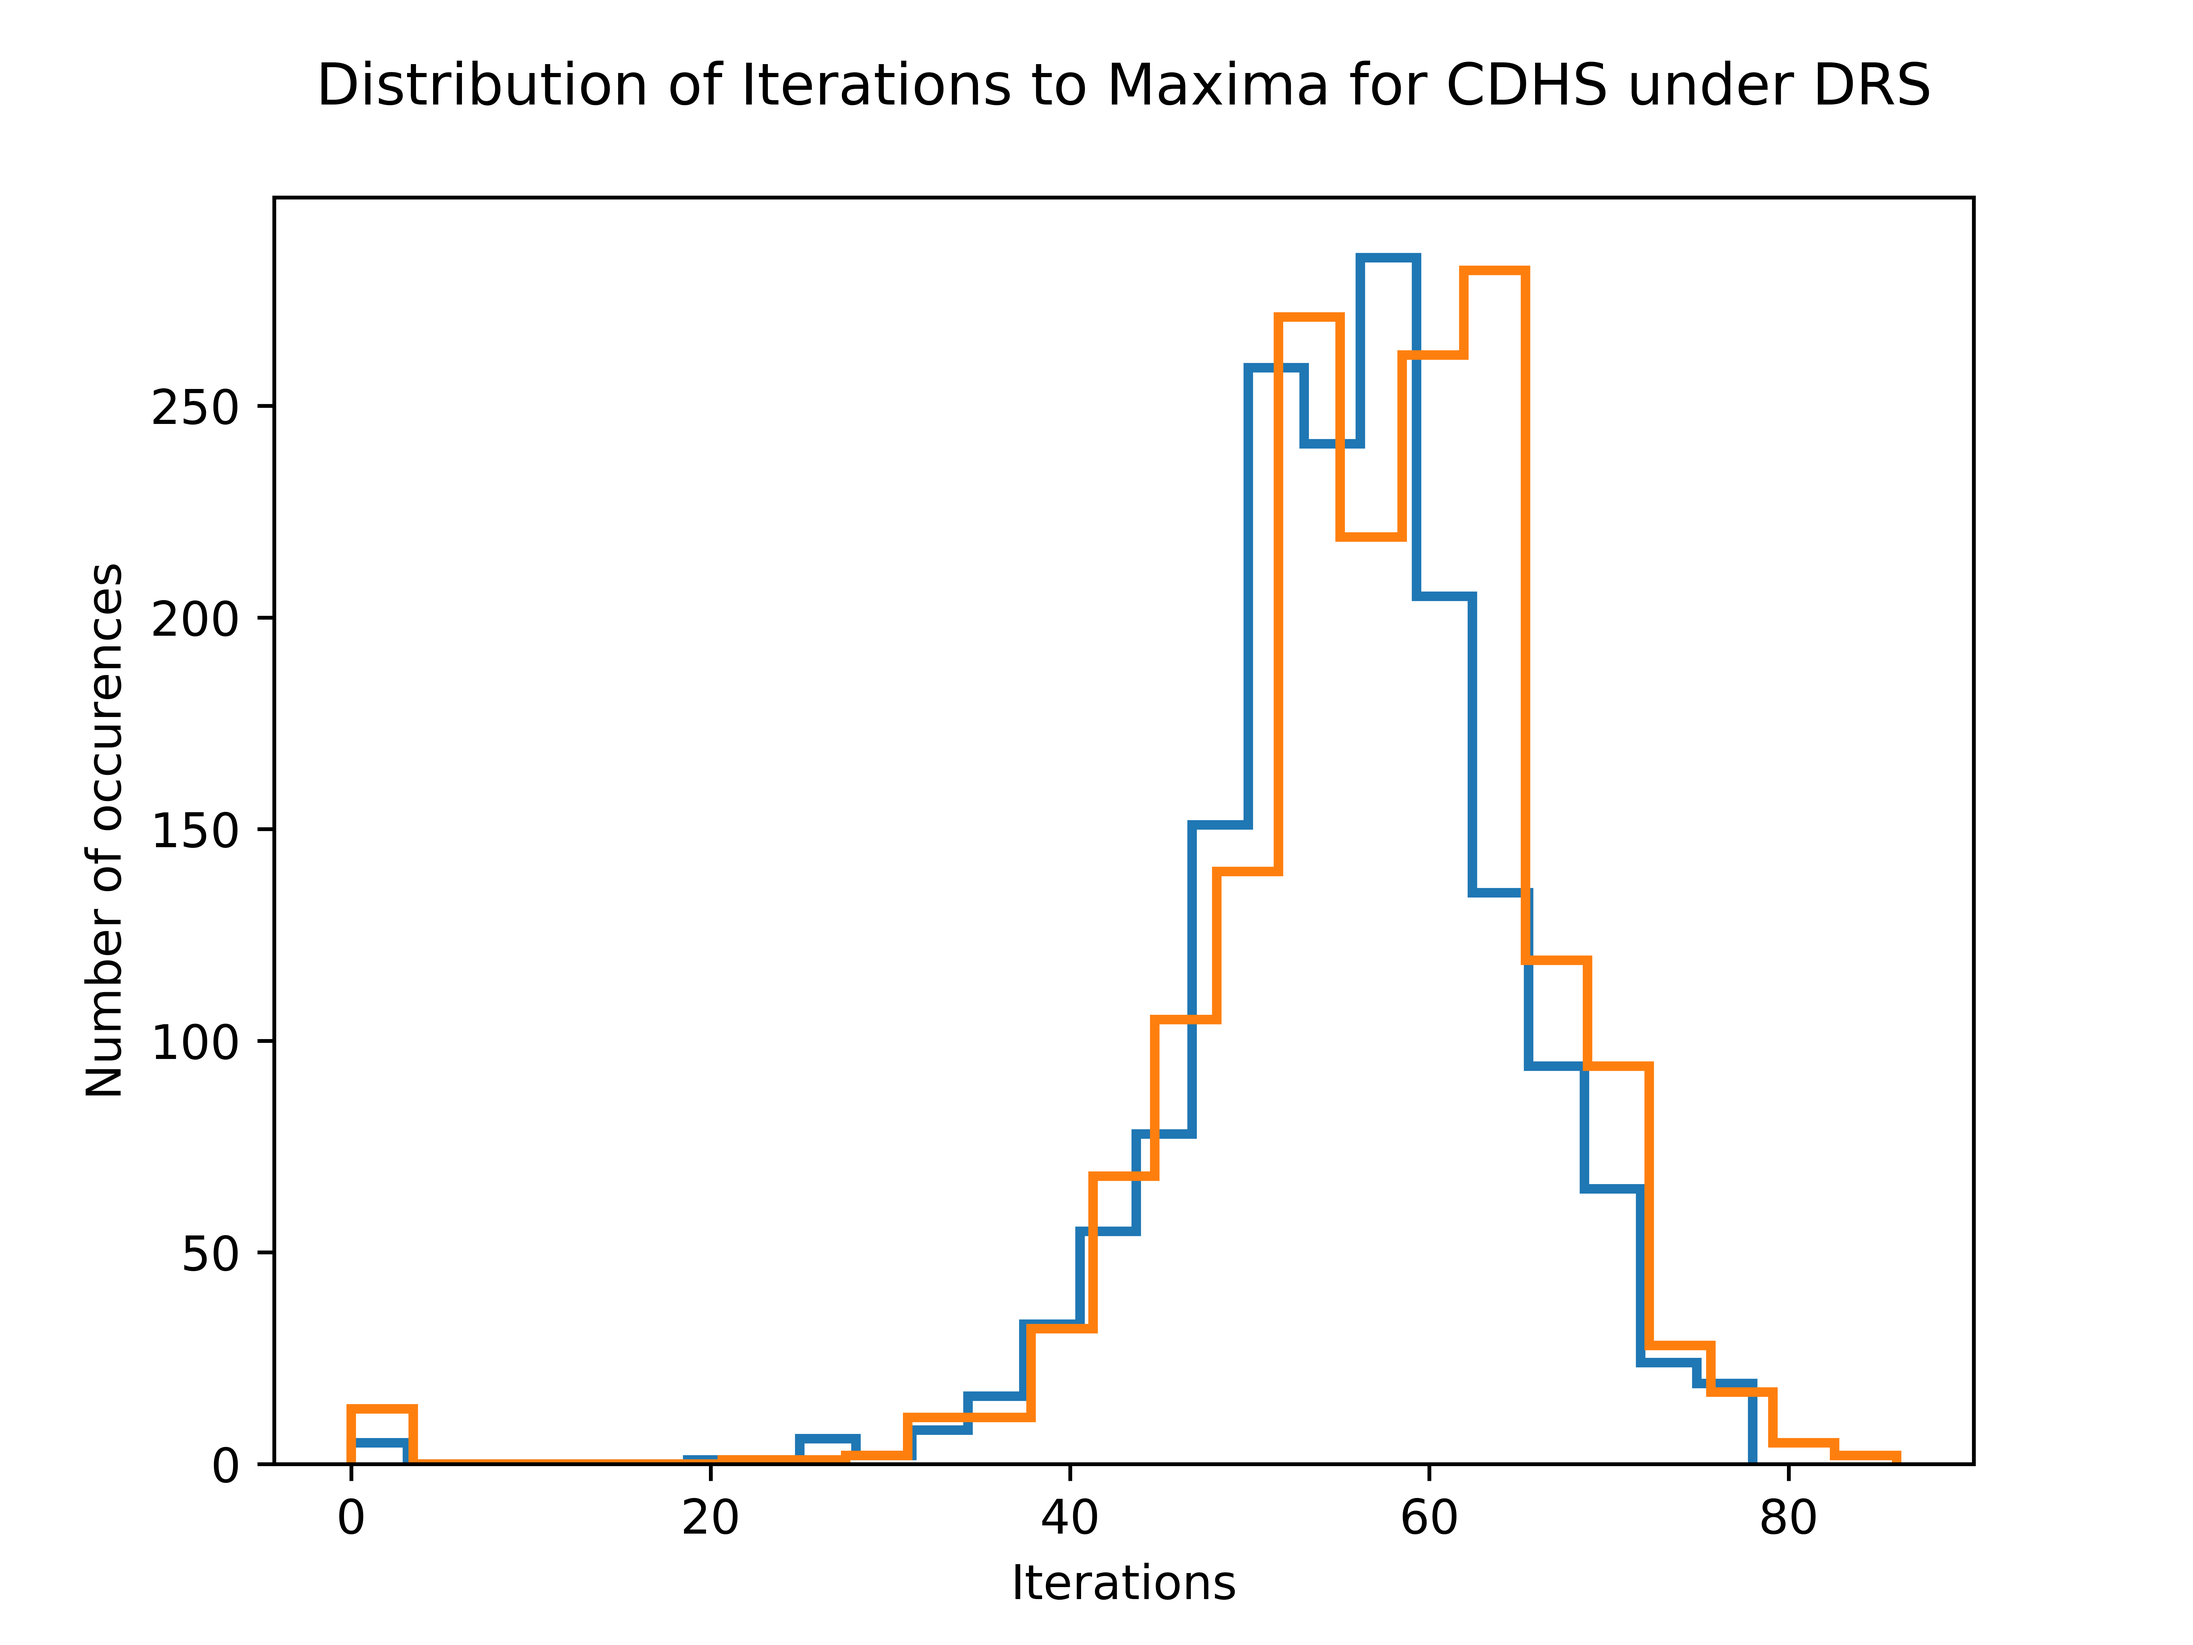
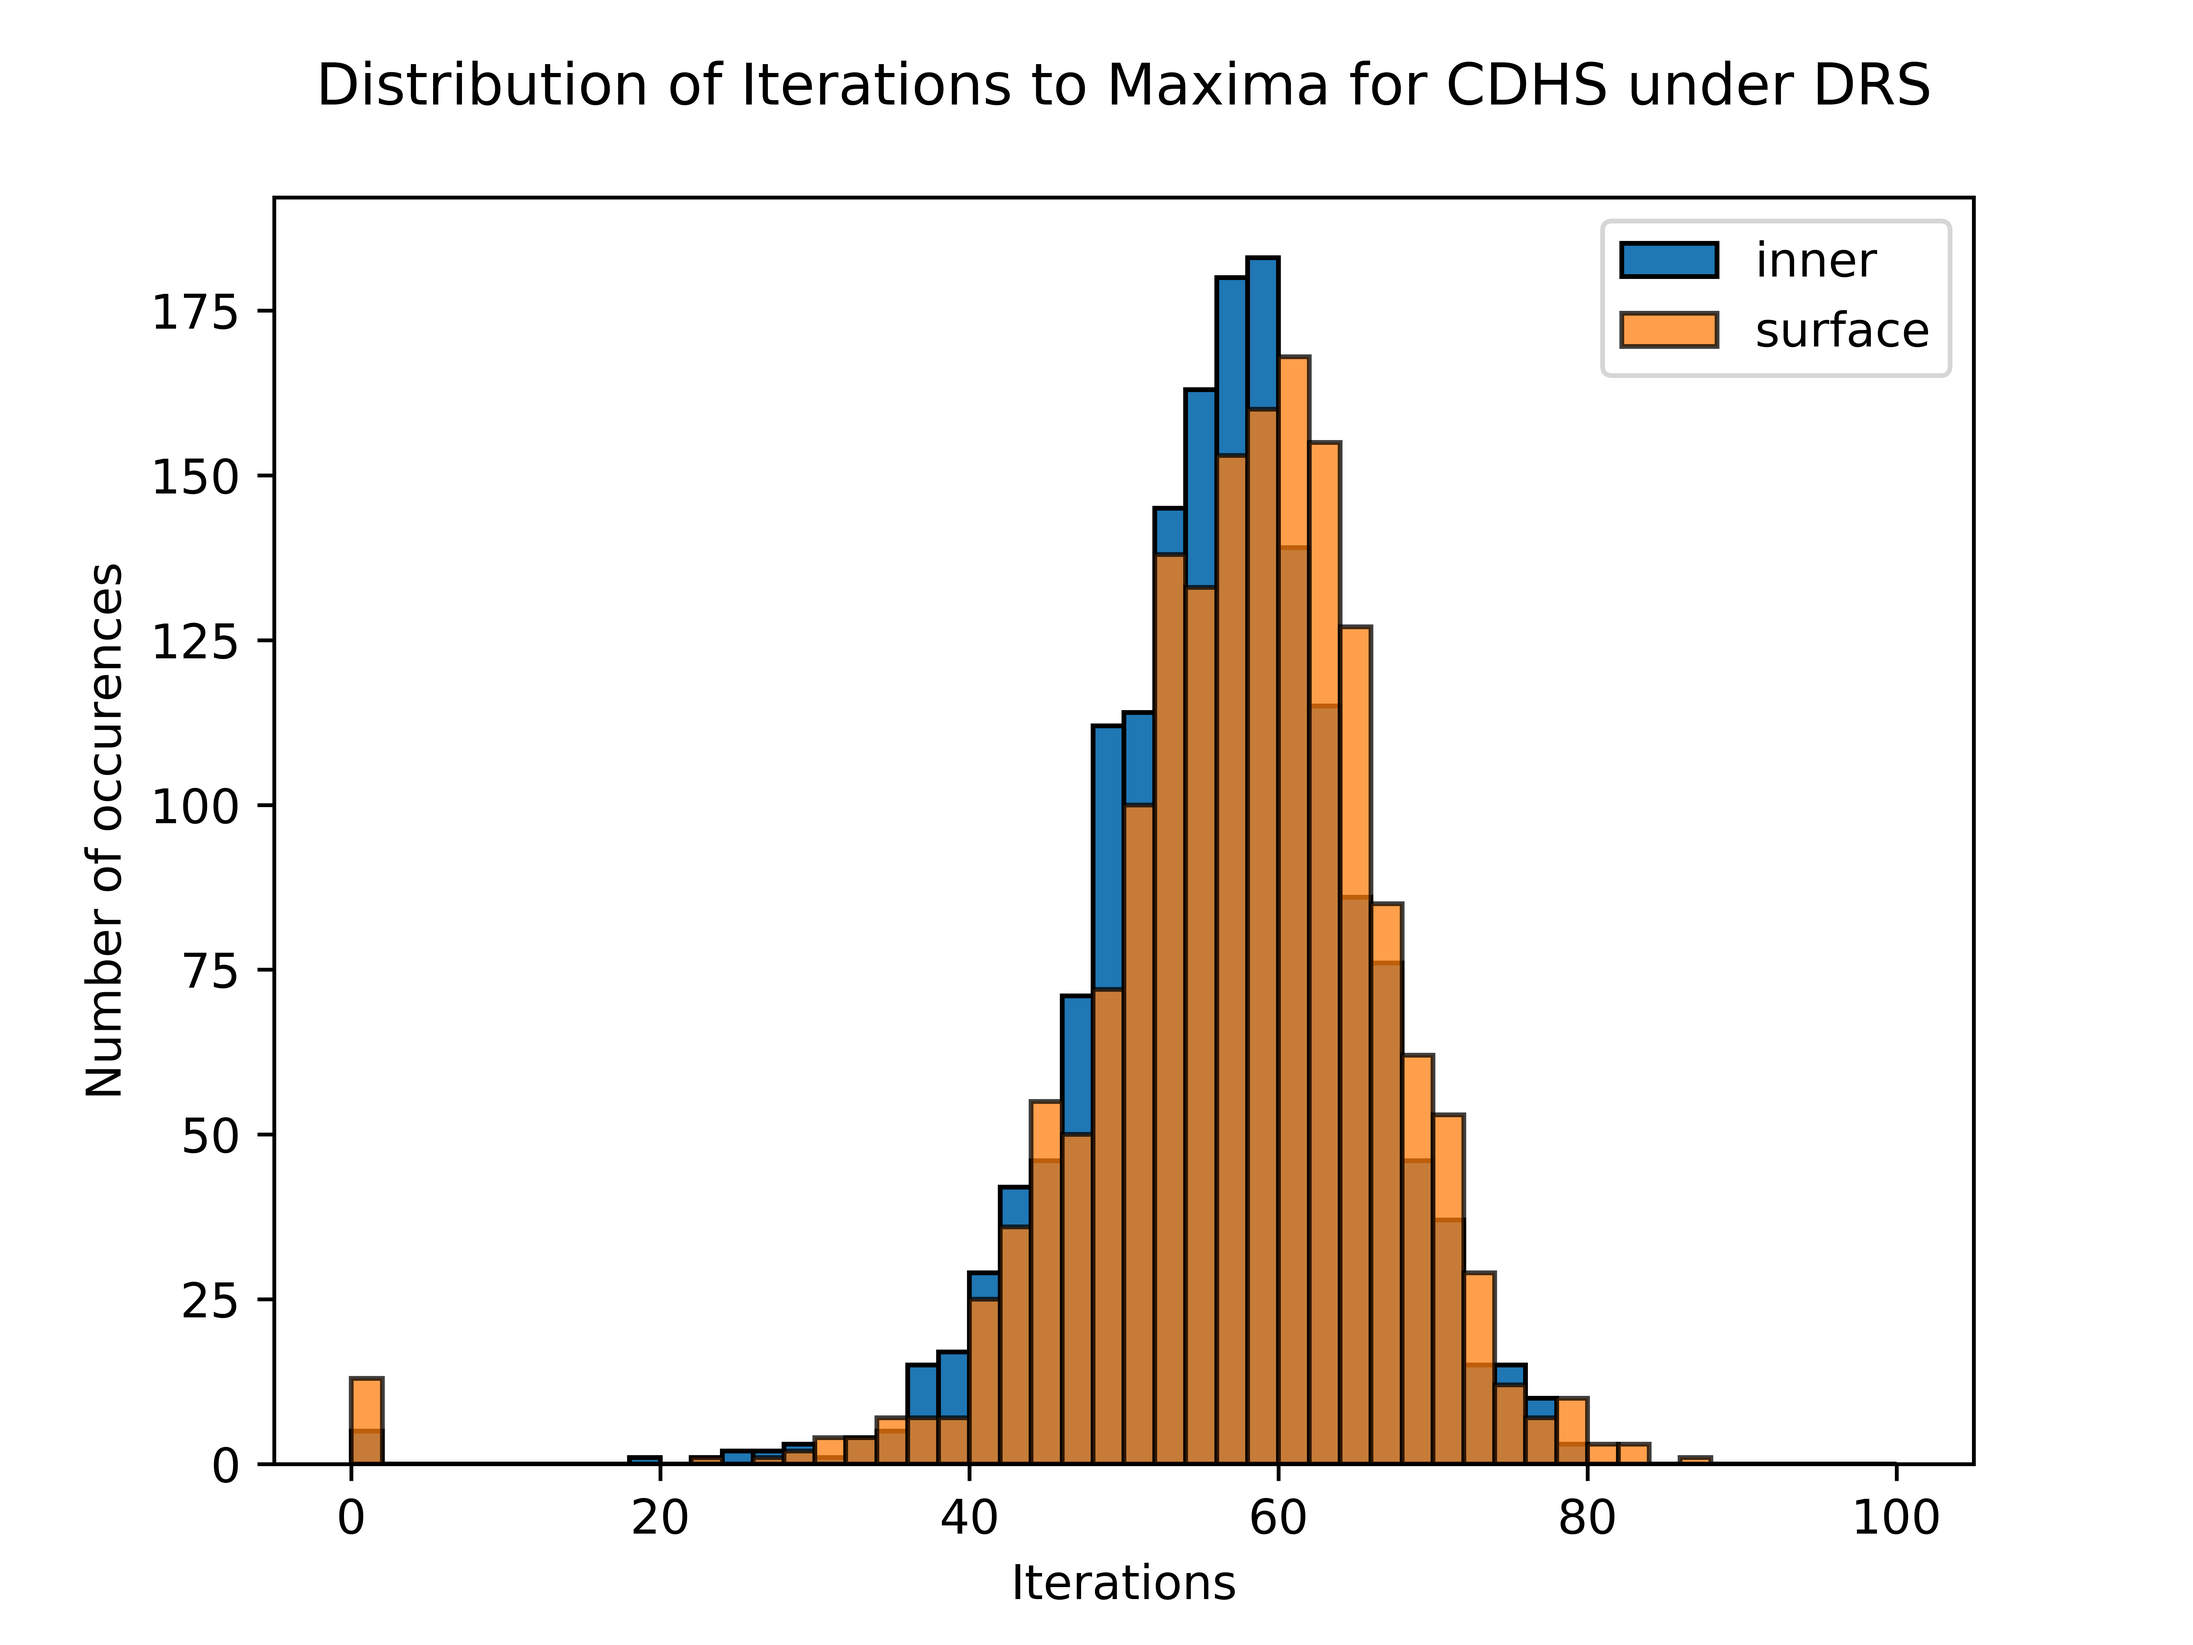
Tweaked the iterations plots.

diff --git a/generate_plots.py b/generate_plots.py
@@ -2,6 +2,7 @@
 
 # import matplotlib as mpl
 from matplotlib import pyplot as plt
+import numpy as np
 import pandas as pd
 import sys
 
@@ -54,16 +55,19 @@ def plot_score_distributions(scores, display=True, save=False):
 
 # Iterations distributions.
 def plot_iter_distributions(scores, display=True, save=False):
-    params = dict(bins=25, histtype='step', linewidth=2)
+    params = dict(bins=50, histtype='bar', edgecolor='k')
     title = 'Distribution of Iterations to Maxima for {} under {}\n'
     for sc in scores:
         for cn, res in scores[sc].items():
             print('Plotting %s-%s iterations.' % (sc, cn))
             if sc == 'CDHS':
-                plt.hist(res['Inn'], **params)
-                plt.hist(res['Sur'], **params)
+                #  plt.hist(np.array((res['Inn'], res['Sur'])).T, **params)
+                plt.hist(res['Inn'], label='inner', range=(0, 100), **params)
+                plt.hist(res['Sur'], label='surface', range=(0, 100),
+                         alpha=.75, **params)
+                plt.legend()
             elif sc == 'CEESA':
-                plt.hist(res['Iter'], **params)
+                plt.hist(res['Iter'], range=(70, 120), **params)
             plt.title(title.format(sc, cn))
             plt.xlabel('Iterations')
             plt.ylabel('Number of occurences')
